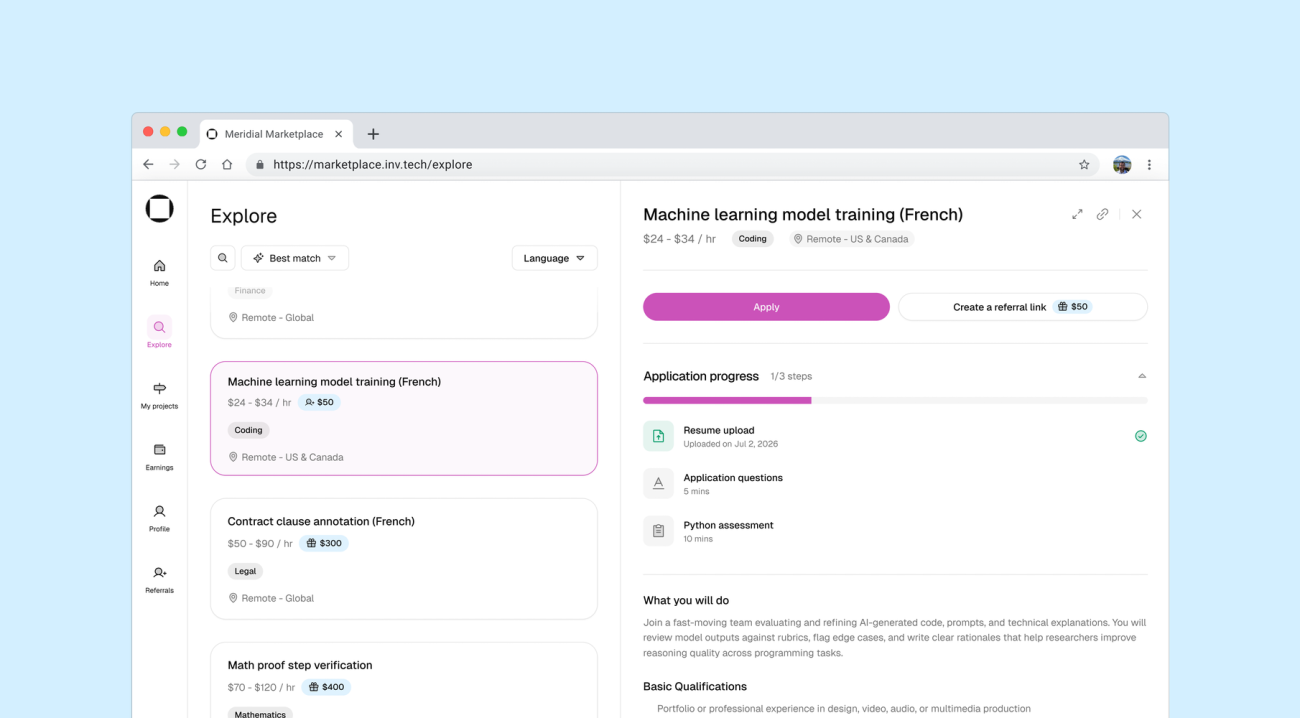
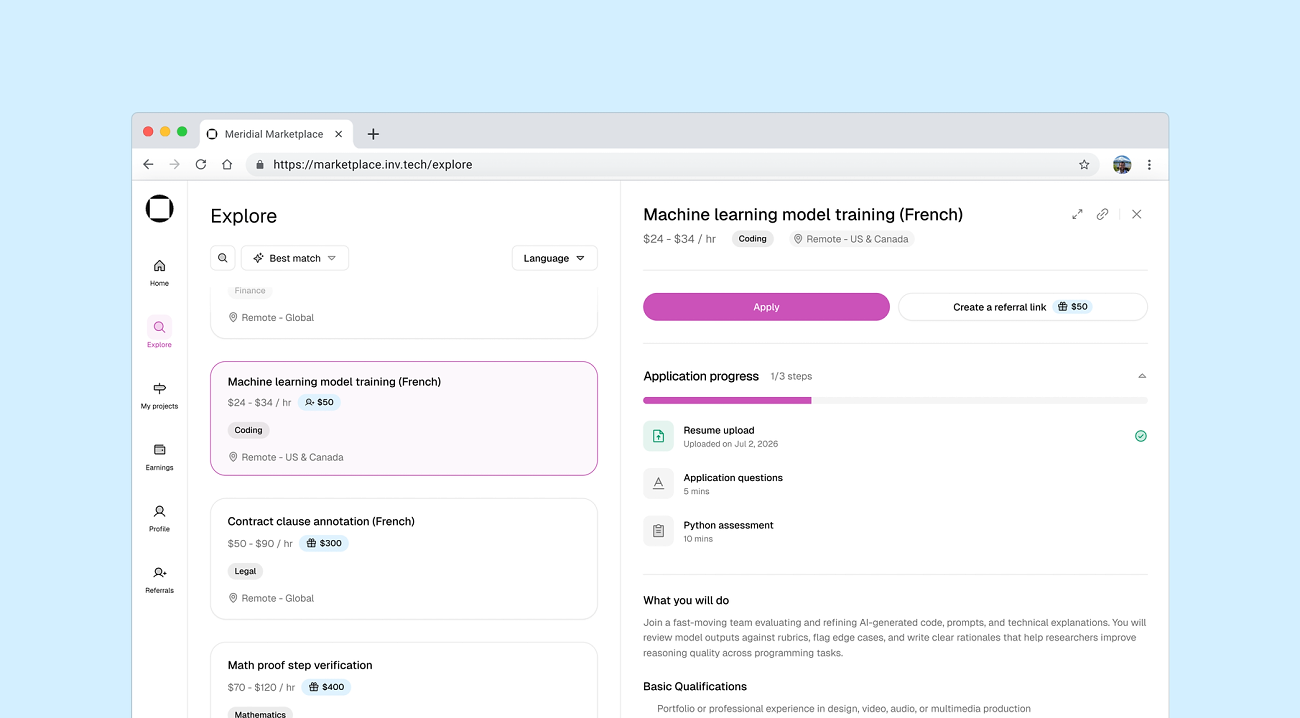
Sharpen the Explore & Apply card's 900 and 1300 cuts.
The card keeps the whole window (no zoom), but its cuts are now sharpened
after the Lanczos resize with the zoomed cards' recipe (sigma 0.6, m1 0.6,
m2 1.2), so its small UI type reads crisper in the grid.

diff --git a/src/data/workCards.ts b/src/data/workCards.ts
@@ -145,6 +145,8 @@ const apply: WorkCard = {
   href: '/work/invisible/apply',
   title: 'Meridial’s Explore & Apply',
   subtitle: 'Finding and applying to AI projects',
+  // The whole window, not zoomed, but its 900 and 1300 cuts are sharpened
+  // after the resize like the zoomed cards', so its small UI type holds up.
   art: {
     src: '/work/bento/card-invisible-apply.webp',
     srcSet: cuts('/work/bento/card-invisible-apply.webp'),

diff --git a/CLAUDE.md b/CLAUDE.md
@@ -130,4 +130,4 @@ Images referenced as absolute paths (`/profile.jpg`, `/work/signup.png`) live in
 
 **Image delivery** (Oct 21 2026): every PNG a page shows is shipped as **lossless WebP** (`sharp`, `lossless`, `exact`, ICC kept), checked pixel-for-pixel against the PNG it replaced — about 30% lighter with nothing lost. Bake or export as PNG, then convert; never use lossy WebP or AVIF for these, which would strip the no3y collage's dither. JPEGs stay JPEG, rewritten losslessly as progressive by `jpegtran -copy all -optimize -progressive`. `pixel-flower.png` stays PNG because it's also the favicon. Hero images load eagerly at `fetchPriority="high"` (`ShotFrame`'s `priority`, the showcase's wide shot, Synapse's blueprint, the two Showcase windows on onboarding and Apply); everything below the fold is `loading="lazy" decoding="async"`. `vercel.json` caches `/assets/*` (Vite-hashed) as immutable, and `/work/*` and `/leaves/*` for a day with a week of stale-while-revalidate. Those files aren't hashed, so a re-exported image replaced in place reaches a returning visitor within a day; rename the file if it has to land at once.
 
-**Work card cuts** (Oct 22 2026): the five 4x card exports (no3y Code, D2 Conflux and the three Invisible cards, all 1810 × 1000) ship with `-900` / `-1300` cuts beside them, Lanczos-resized with `sharp` (lossless WebP for the WebPs, JPEG q90 4:4:4 for the JPEGs), and `CardArt` serves them through `srcSet` with `sizes="auto, …"`. Without them the browser halved the 1810 into a ~440 box itself, which crunched the UI type and moiréd no3y Code's halftone wallpaper; now no downscale runs past ~1.15× on a 2x screen. Re-cut all three files when an export changes (`cuts()` in `workCards.ts` names them). Synapse's card only ever came out of Figma at 2x (905), so it was rebuilt at 4x from the task window's vector frame (`293:18293` on the annotations platform page) laid on the old card's purple at the old card's placement. D2 Conflux and Synapse ship **zoomed** (`zoomed()`): the export cropped 1.3× in from the window's top-left (origin 209, 0 and 72, 80 in the 1810), 1392 × 769 as `<name>-zoom.<ext>`, with its own lightly sharpened 900 / 1300 cuts, so their UI type reads larger and the window runs off the right edge. The zoom was tried on no3y Code and Meridial onboarding too and rejected there — those two keep the whole window.
+**Work card cuts** (Oct 22 2026): the five 4x card exports (no3y Code, D2 Conflux and the three Invisible cards, all 1810 × 1000) ship with `-900` / `-1300` cuts beside them, Lanczos-resized with `sharp` (lossless WebP for the WebPs, JPEG q90 4:4:4 for the JPEGs), and `CardArt` serves them through `srcSet` with `sizes="auto, …"`. Without them the browser halved the 1810 into a ~440 box itself, which crunched the UI type and moiréd no3y Code's halftone wallpaper; now no downscale runs past ~1.15× on a 2x screen. Re-cut all three files when an export changes (`cuts()` in `workCards.ts` names them). Synapse's card only ever came out of Figma at 2x (905), so it was rebuilt at 4x from the task window's vector frame (`293:18293` on the annotations platform page) laid on the old card's purple at the old card's placement. D2 Conflux and Synapse ship **zoomed** (`zoomed()`): the export cropped 1.3× in from the window's top-left (origin 209, 0 and 72, 80 in the 1810), 1392 × 769 as `<name>-zoom.<ext>`, with its own lightly sharpened 900 / 1300 cuts, so their UI type reads larger and the window runs off the right edge. The zoom was tried on no3y Code and Meridial onboarding too and rejected there — those two keep the whole window. Meridial's Explore & Apply keeps the whole window too, but its 900 / 1300 cuts are sharpened after the resize the same way (`sigma` 0.6, `m1` 0.6, `m2` 1.2), so its small UI type reads crisper without the crop.
